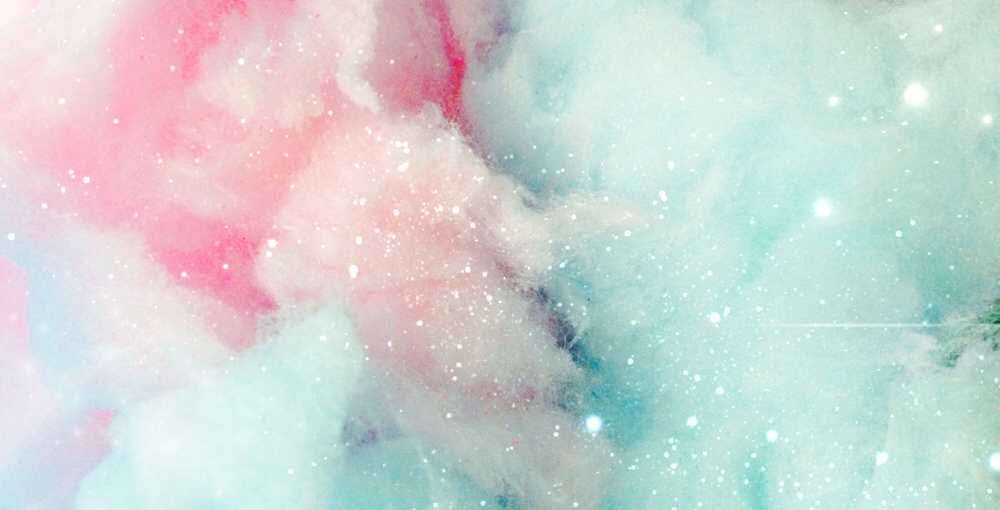
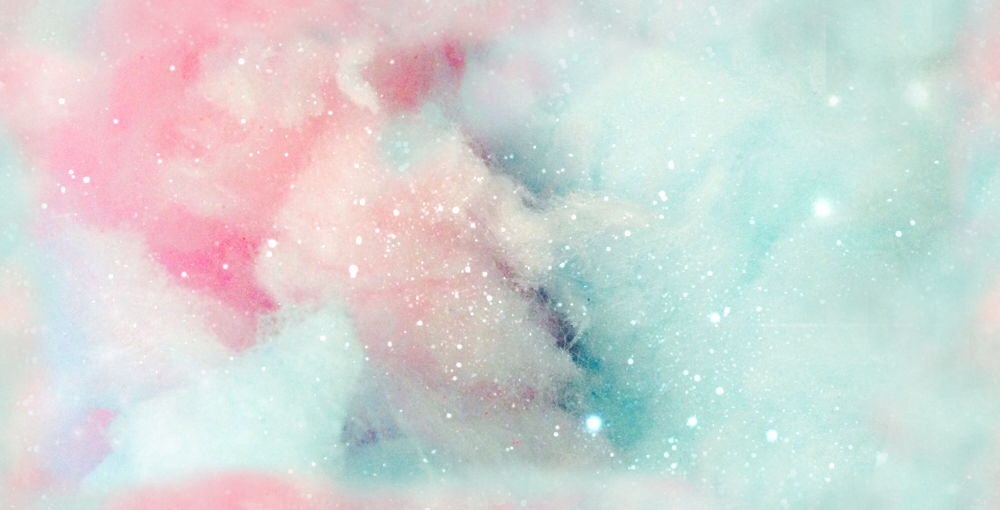
Changed background to be seamless

diff --git a/game-client/src/background.cpp b/game-client/src/background.cpp
@@ -19,6 +19,8 @@ void Background::update( double dt ){
     cloudsUV.left = viewPos.x/8;
     clouds.setTextureRect(cloudsUV);
     sky.setScale( world->view.getSize().x/sky.getTexture()->getSize().x, world->view.getSize().y/sky.getTexture()->getSize().y );
+    hills.setScale( world->view.getSize().x/hills.getTexture()->getSize().x, world->view.getSize().y/hills.getTexture()->getSize().y );
+    clouds.setScale( world->view.getSize().x/clouds.getTexture()->getSize().x, world->view.getSize().y/clouds.getTexture()->getSize().y );
 }
 
 void Background::onHit(Entity* collider, b2Contact* c, b2Vec2 hitnormal){

diff --git a/game-client/src/main.cpp b/game-client/src/main.cpp
@@ -25,7 +25,7 @@ int app() {
     
     sf::RenderWindow window(sf::VideoMode(800, 600), "Loque");
     world->addEntity( new Background("assets/images/sky.png", "assets/images/clouds.png", "assets/images/hills.png" ), World::Layer::Background );
-    world->addEntity( new Map( "assets/Zapper_Level_1.tmx" ), World::Layer::Midground );
+    world->addEntity( new Map( "assets/Zapper_Level_2.tmx" ), World::Layer::Midground );
     world->addEntity( new HUD(), World::Layer::Foreground );
     std::vector<Entity*> spawns = world->getEntitiesByType(Entity::Type::PlayerSpawn);
     if(spawns.size() >= 1){

diff --git a/game-client/src/hud.cpp b/game-client/src/hud.cpp
@@ -12,7 +12,7 @@ void HUD::draw(sf::RenderTarget& window){
     posY = view.getCenter().y - (view.getSize().y / 2);
     std::vector<Entity*> players = world->getEntitiesByType(Entity::Type::Player);
     if(players.size() > 0){
-        int score = abs(playerStats->getScore());
+        int score = playerStats->getScore();
         sf::Text scoreText;
         scoreText.setFont( *Resources->getFont( "assets/fonts/arial.ttf" ) );
         std::ostringstream s;
